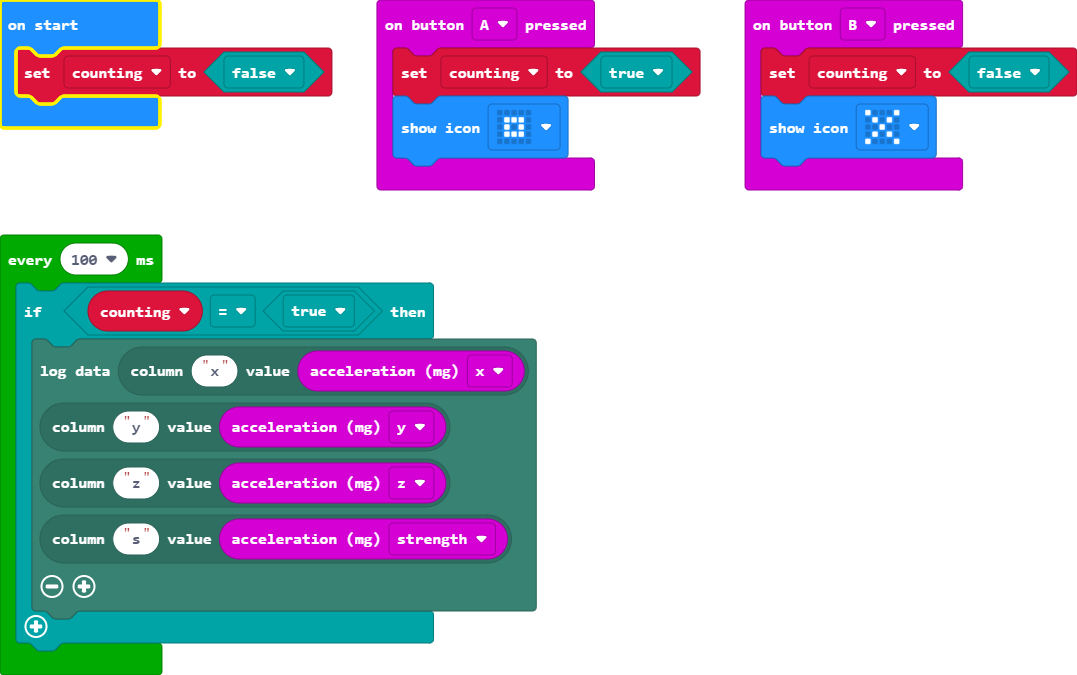
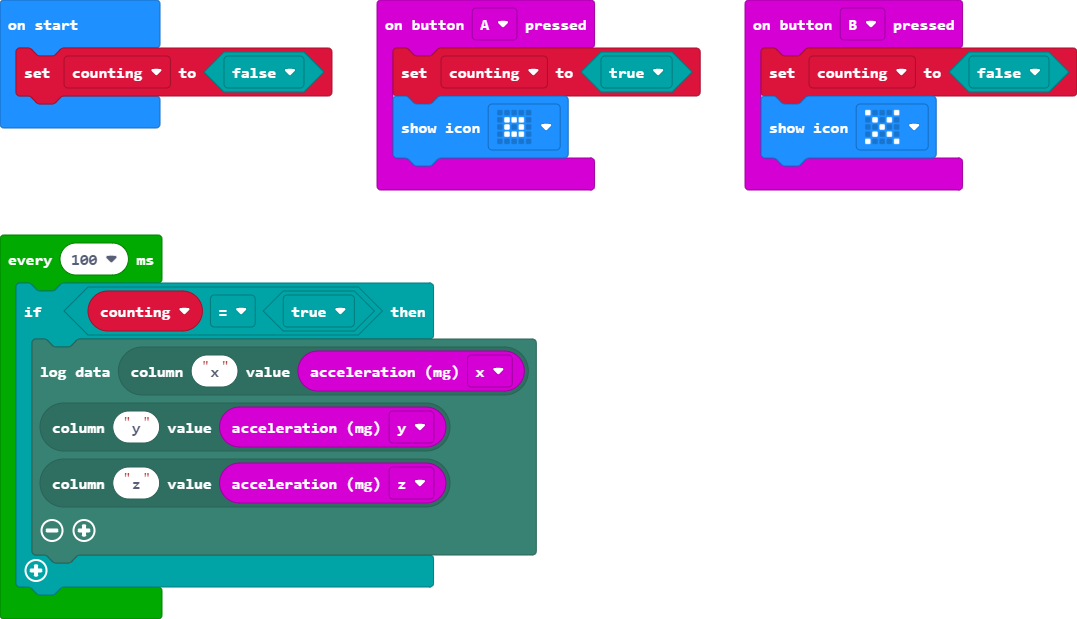
deleted acceleration strength column (hopefully accommodates bigger storage for the data logger

diff --git a/main.ts b/main.ts
@@ -13,8 +13,7 @@ loops.everyInterval(100, function () {
         datalogger.log(
         datalogger.createCV("x", input.acceleration(Dimension.X)),
         datalogger.createCV("y", input.acceleration(Dimension.Y)),
-        datalogger.createCV("z", input.acceleration(Dimension.Z)),
-        datalogger.createCV("s", input.acceleration(Dimension.Strength))
+        datalogger.createCV("z", input.acceleration(Dimension.Z))
         )
     }
 })
